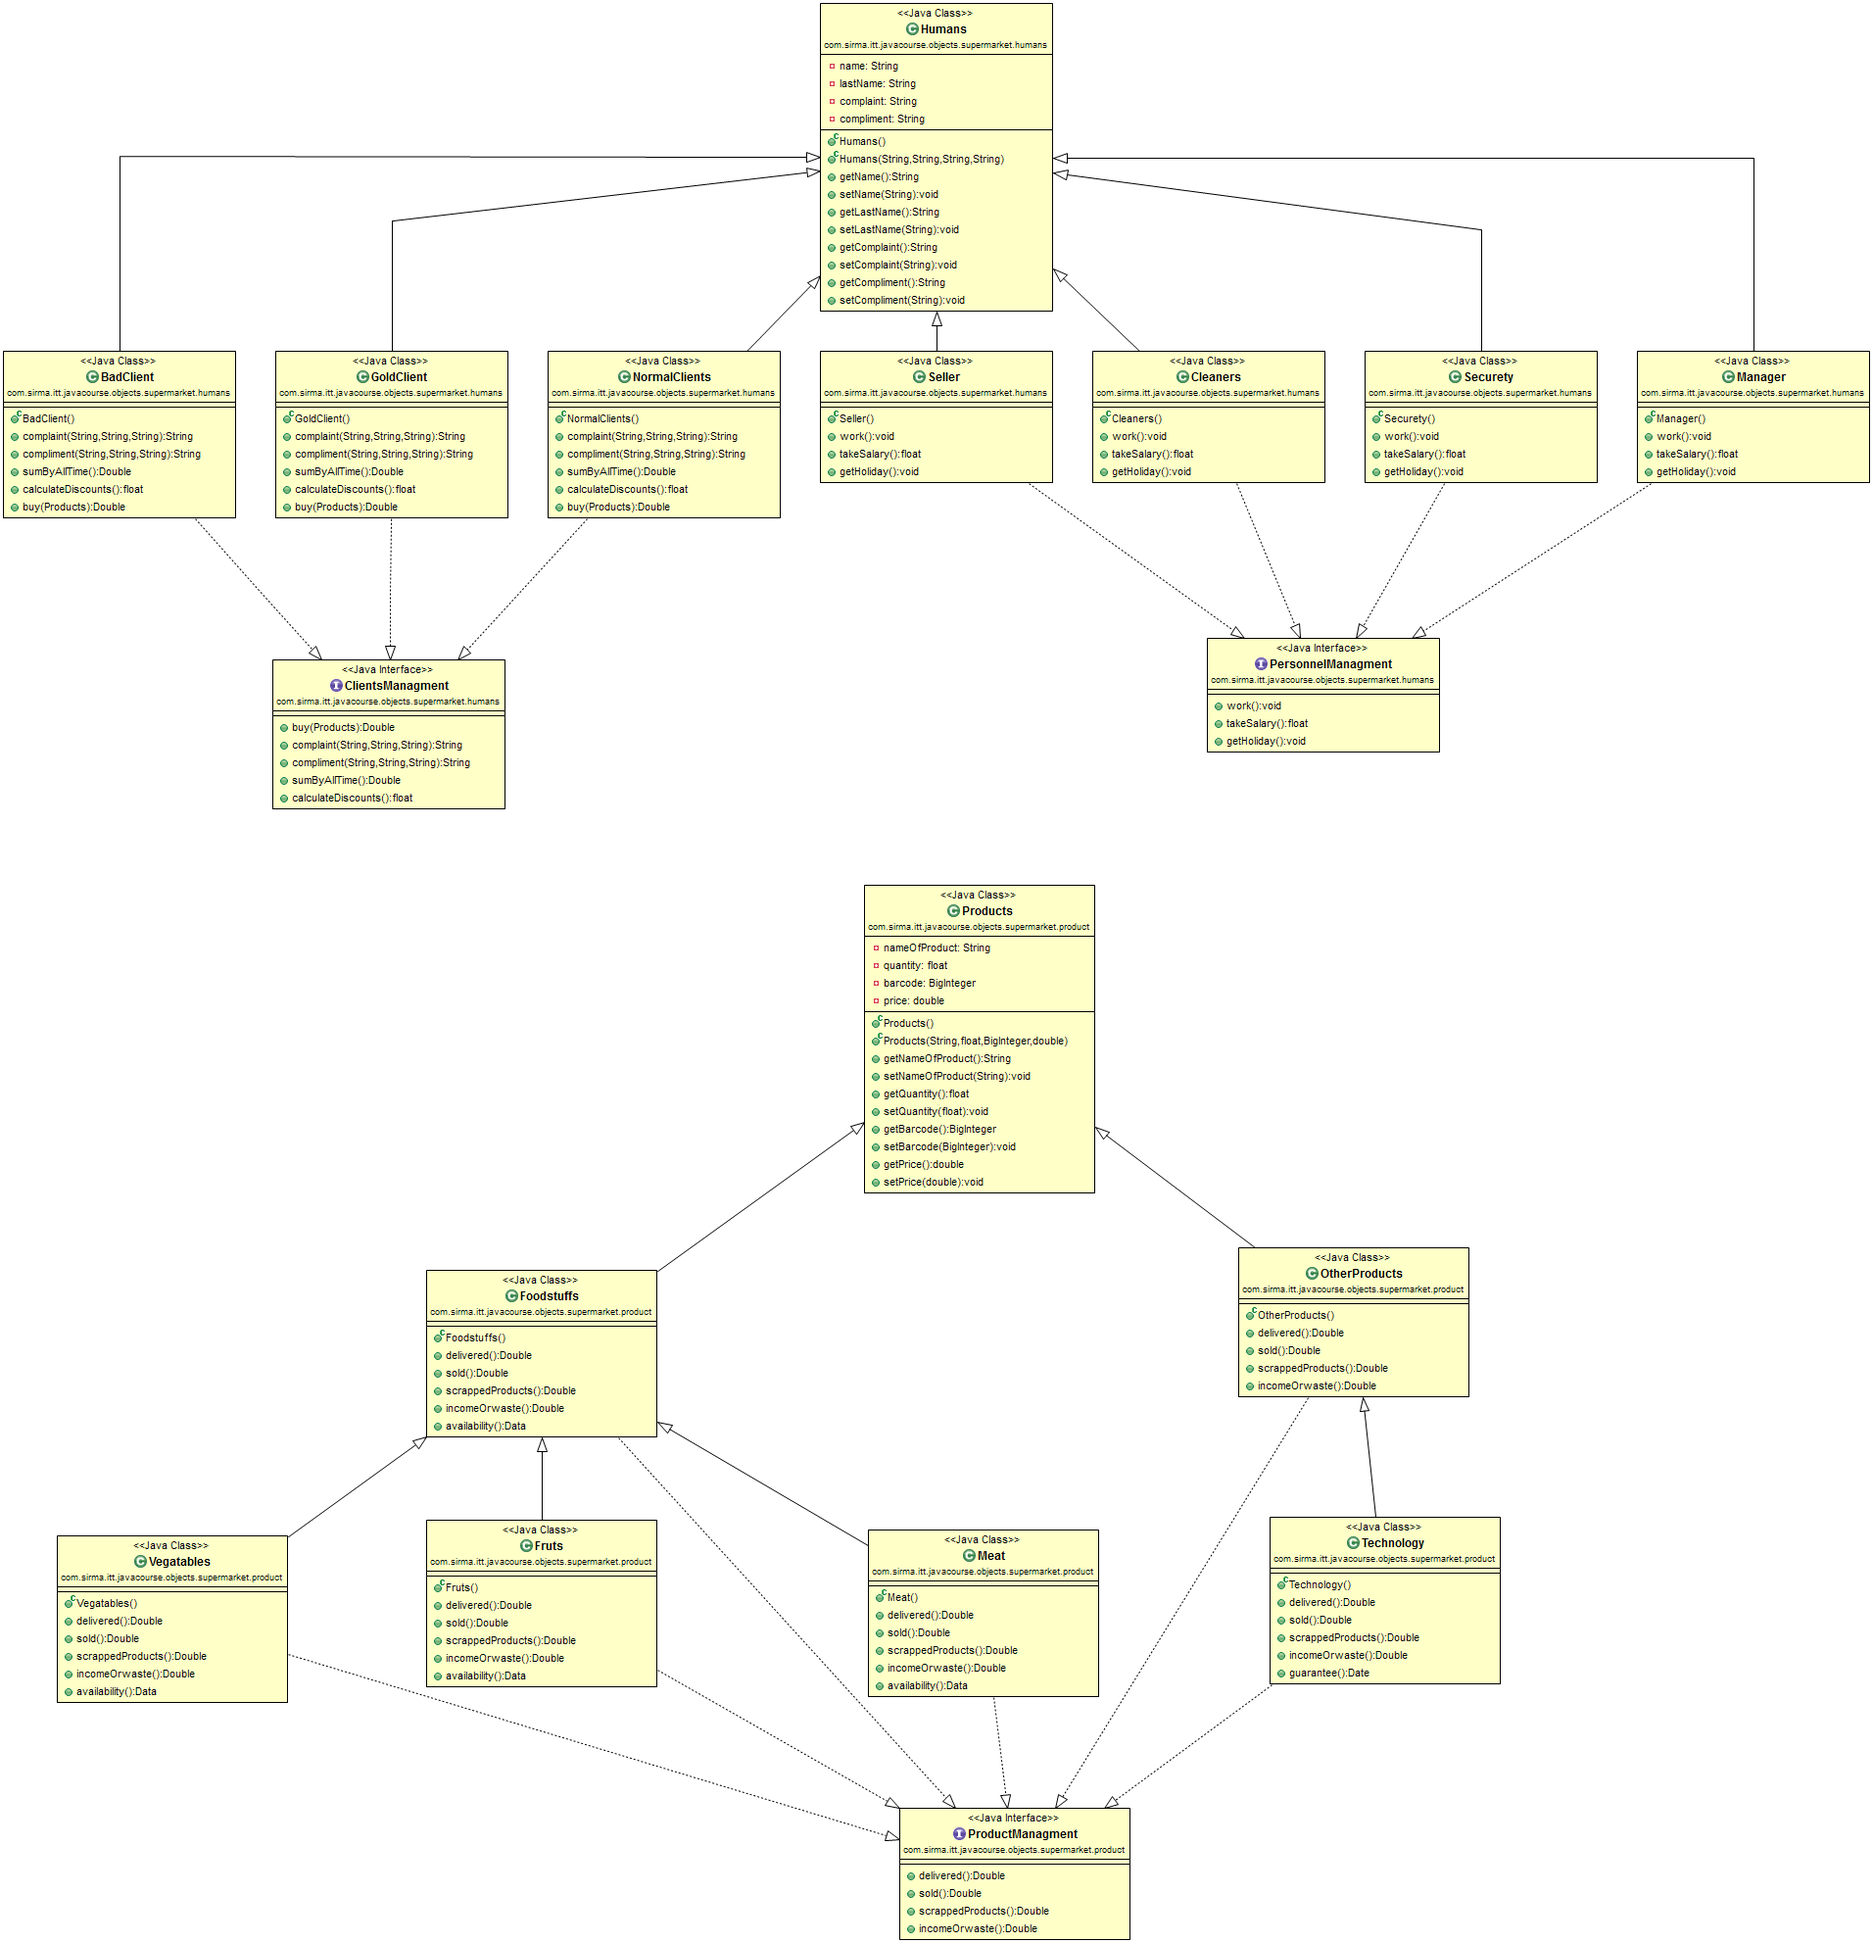
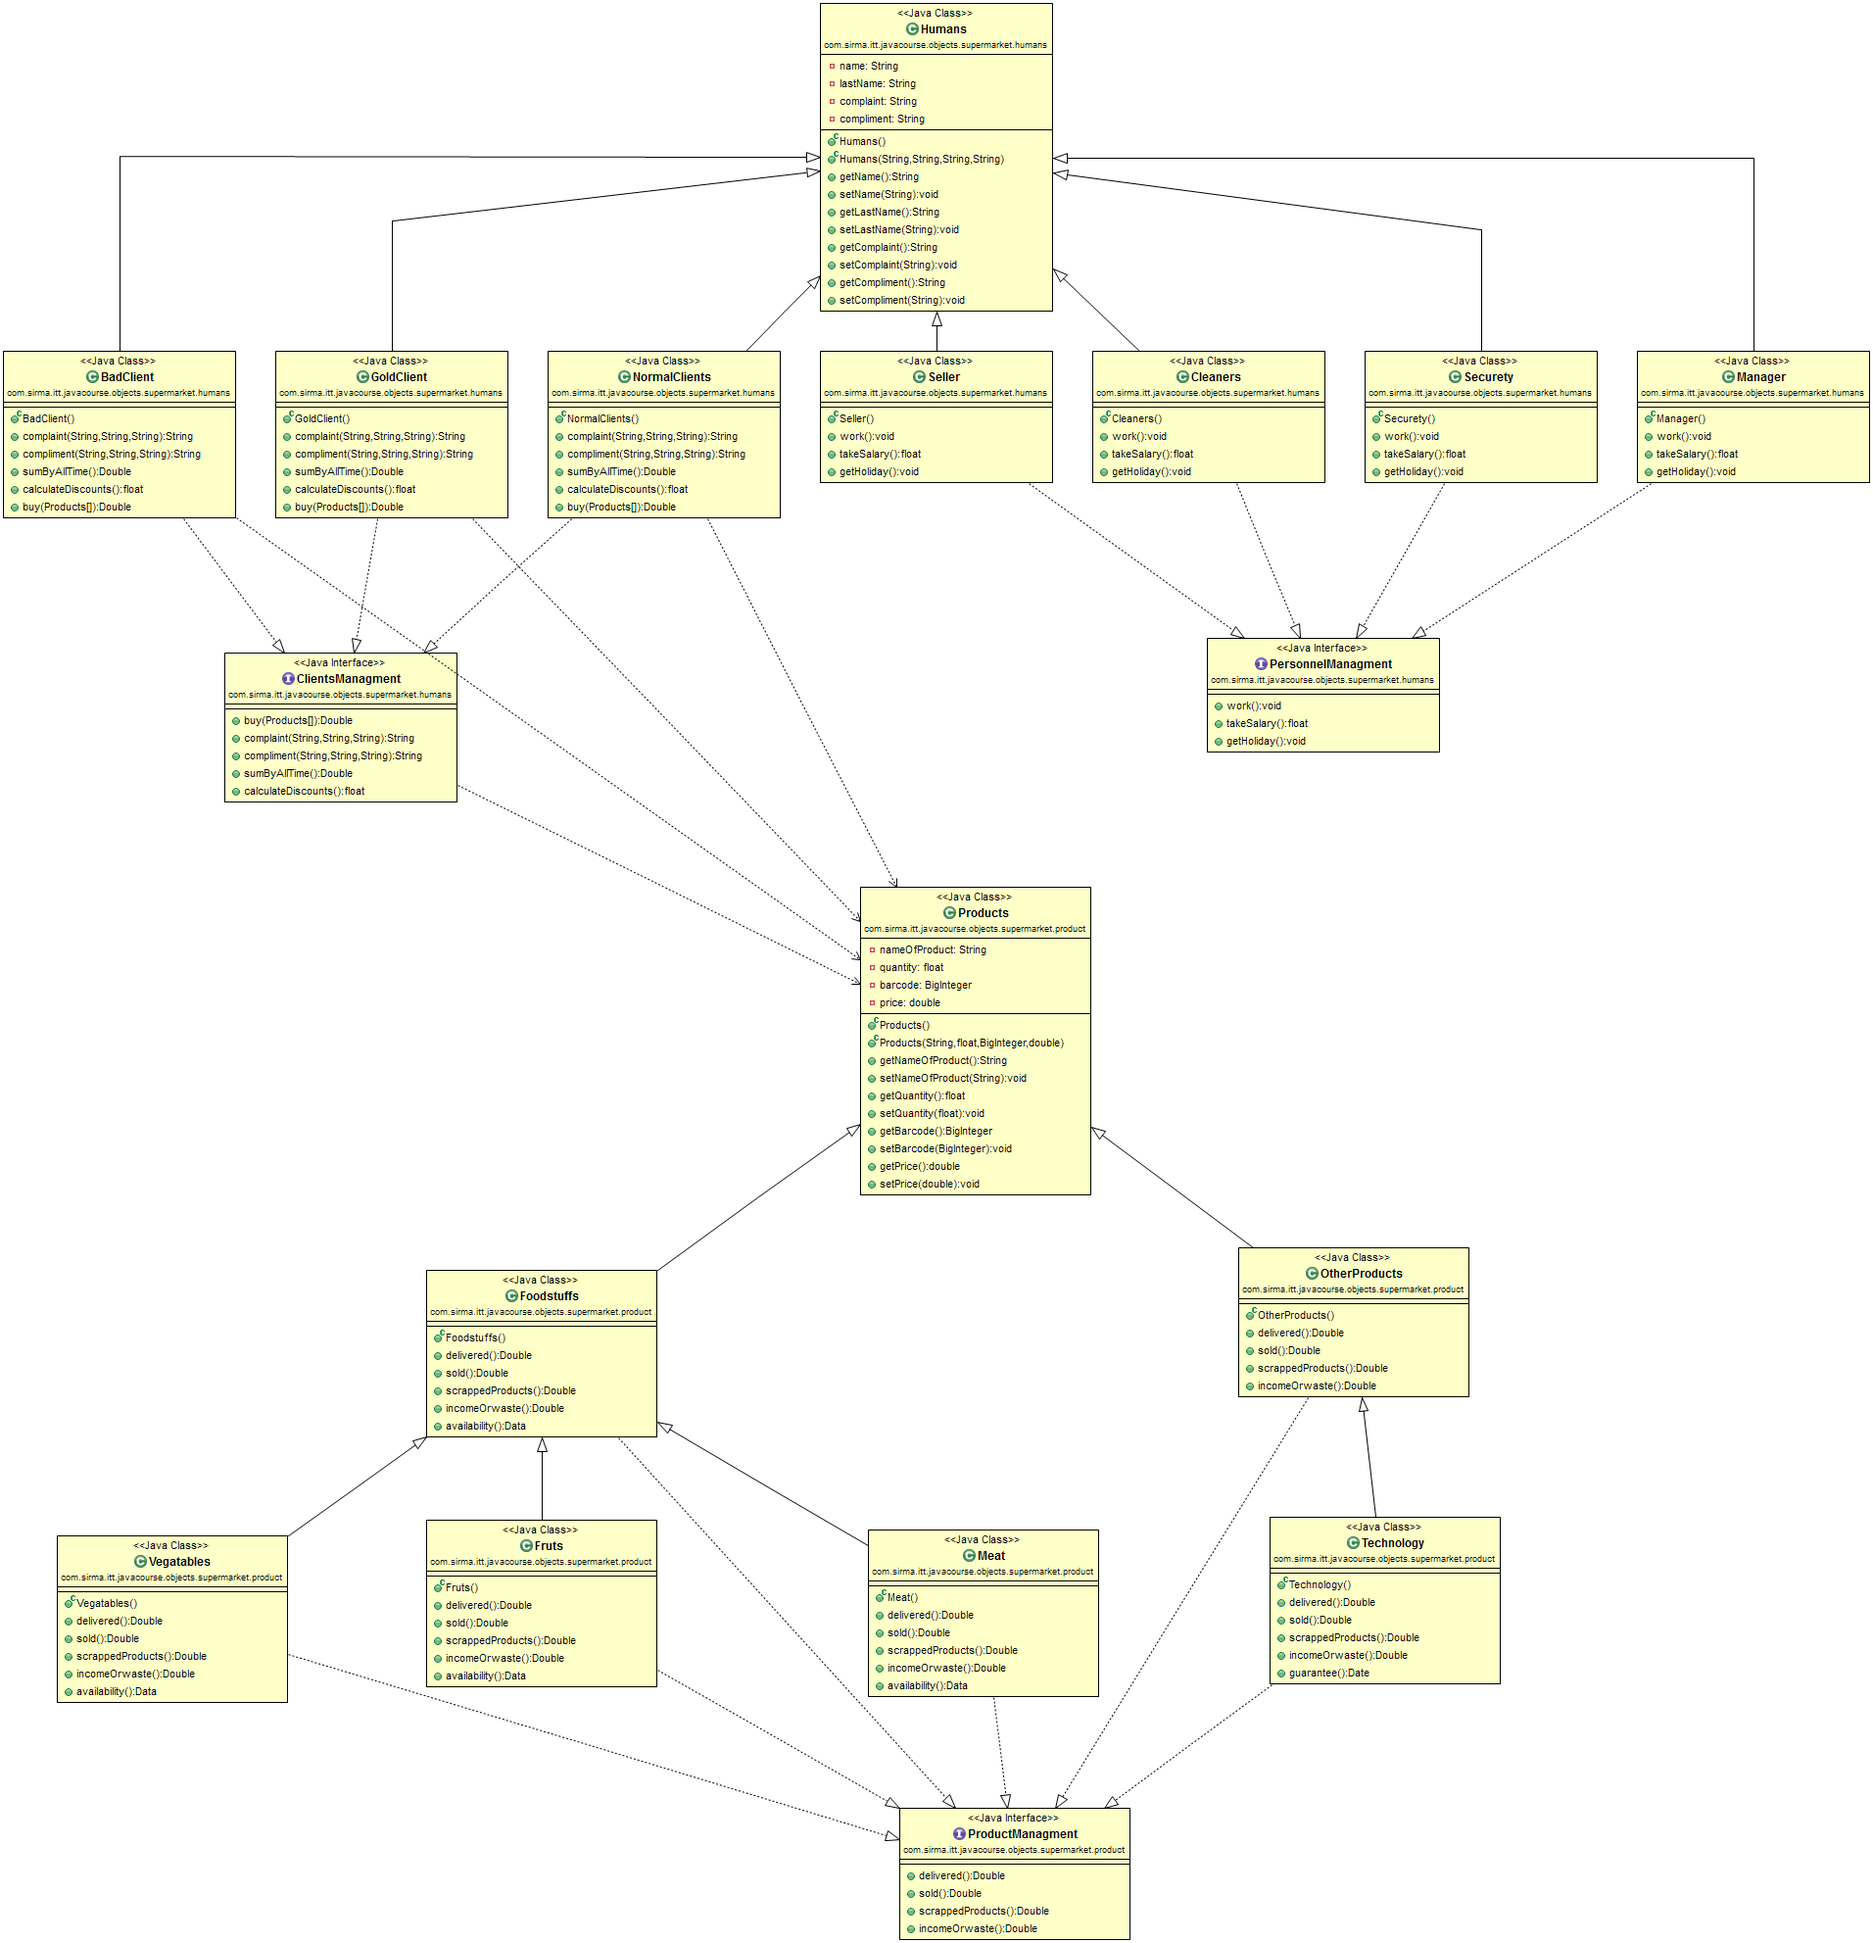
new grafic

Changed region(s): [[0.432, 0.4614, 0.5863, 0.6152], [0.0926, 0.3076, 0.2777, 0.4307]]

diff --git a/Objects In Java/src/main/java/com/sirma/itt/javacourse/objects/supermarket/humans/BadClient.java b/Objects In Java/src/main/java/com/sirma/itt/javacourse/objects/supermarket/humans/BadClient.java
@@ -68,11 +68,12 @@ public class BadClient extends Humans implements ClientsManagment {
 	 * @param product
 	 *            bought from supermarket. {@inheritDoc}
 	 */
+
 	@Override
-	public Double buy(Products product) {
+	public Double buy(Products[] product) {
 		double currentSum = 0;
 		System.out.println("Sum of product is " + currentSum);
-		return currentSum;
+		return null;
 	}
 
 }

diff --git a/Objects In Java/src/main/java/com/sirma/itt/javacourse/objects/supermarket/humans/NormalClients.java b/Objects In Java/src/main/java/com/sirma/itt/javacourse/objects/supermarket/humans/NormalClients.java
@@ -68,7 +68,7 @@ public class NormalClients extends Humans implements ClientsManagment {
 	 *            bought from supermarket. {@inheritDoc}
 	 */
 	@Override
-	public Double buy(Products product) {
+	public Double buy(Products[] product) {
 		double currentSum = 0;
 		System.out.println("Sum of product is " + currentSum);
 		return currentSum;

diff --git a/Objects In Java/src/main/java/com/sirma/itt/javacourse/objects/supermarket/humans/GoldClient.java b/Objects In Java/src/main/java/com/sirma/itt/javacourse/objects/supermarket/humans/GoldClient.java
@@ -65,9 +65,8 @@ public class GoldClient extends Humans implements ClientsManagment {
 	/**
 	 * {@inheritDoc}
 	 */
-
 	@Override
-	public Double buy(Products product) {
+	public Double buy(Products[] product) {
 		double currentSum = 0;
 		System.out.println("Sum of product is " + currentSum);
 		return currentSum;

diff --git a/Objects In Java/src/main/java/com/sirma/itt/javacourse/objects/supermarket/humans/ClientsManagment.java b/Objects In Java/src/main/java/com/sirma/itt/javacourse/objects/supermarket/humans/ClientsManagment.java
@@ -10,7 +10,7 @@ public interface ClientsManagment {
 	 *            product from class Products
 	 * @return
 	 */
-	Double buy(Products product);
+	Double buy(Products product[]);
 
 	/**
 	 * Method that signs of poor service
